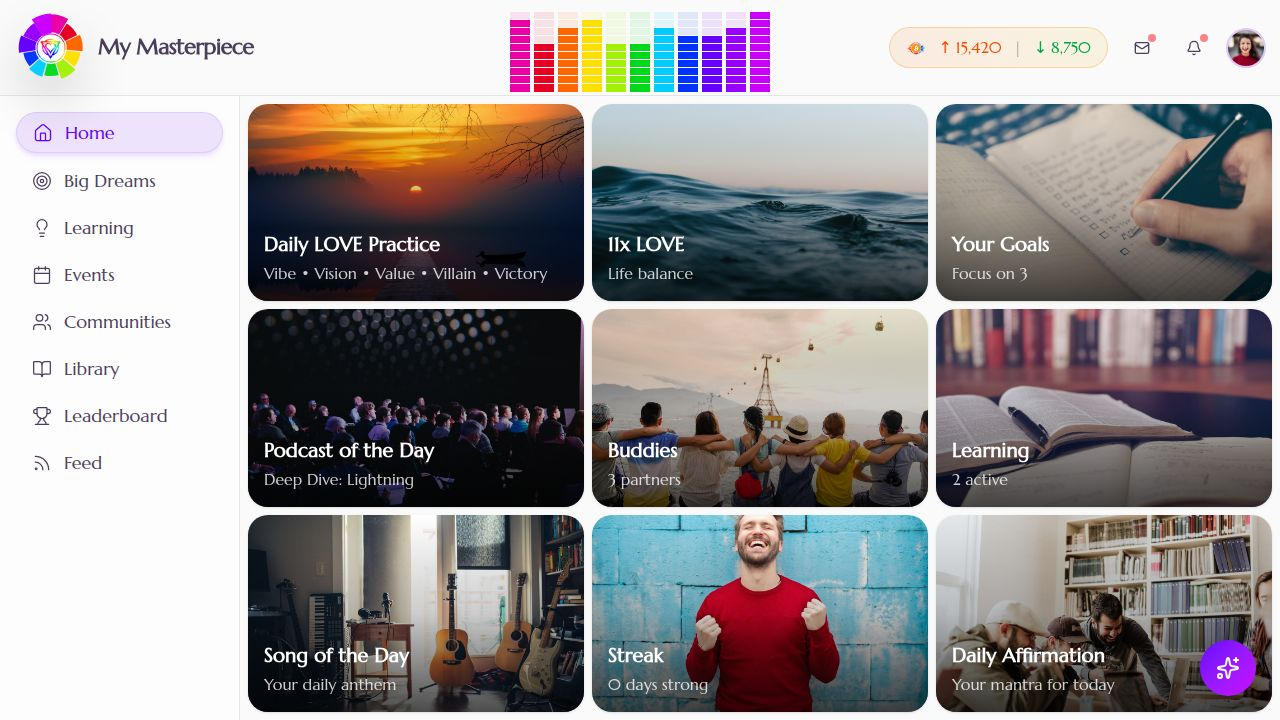
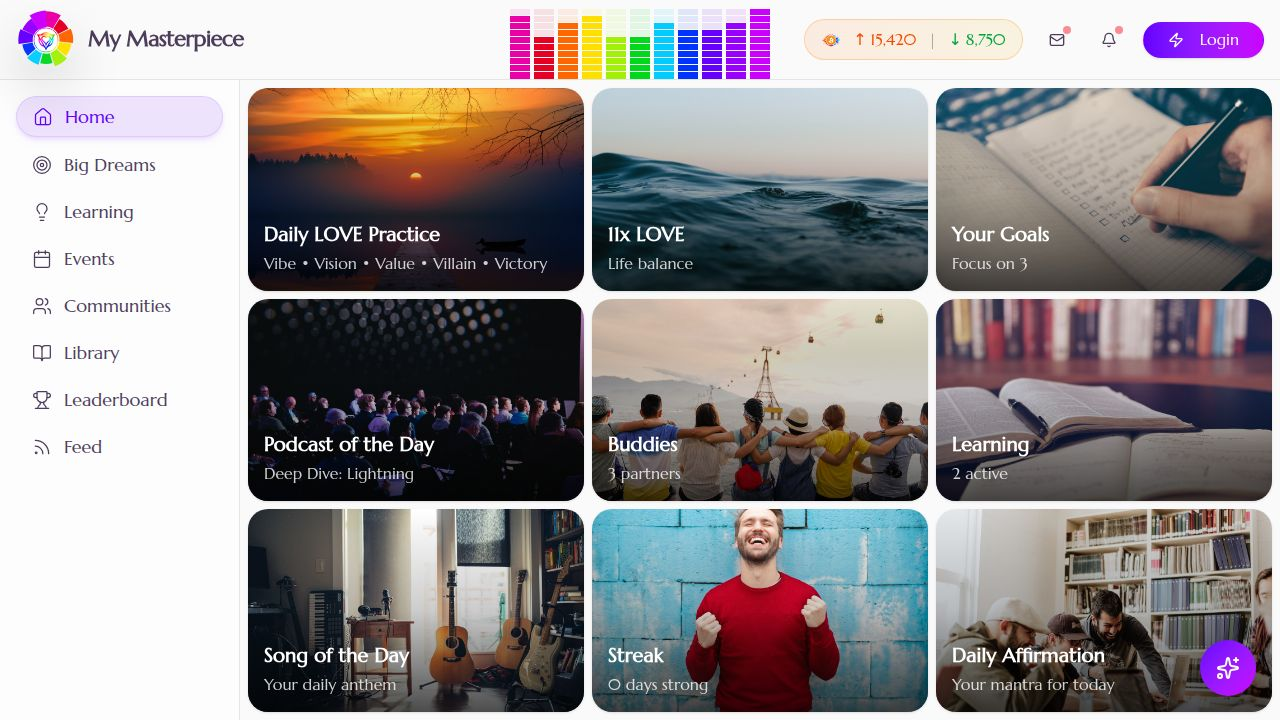
Improve mobile display and card readability on the dashboard
Update FlipCard component with responsive height and padding adjustments. Modify MasterpieceDashboard grid layout for better spacing. Adjust header elements, including EqVisualizer sizing and positioning, and introduce a compact sats display for mobile in the Layout component.

Replit-Commit-Author: Agent
Replit-Commit-Session-Id: e631bd74-a3fb-4cd9-a99c-7d1ff611b411
Replit-Commit-Checkpoint-Type: intermediate_checkpoint
Replit-Commit-Event-Id: 542cd187-db98-4e28-83d2-c5e8e2c4b4b0
Replit-Commit-Screenshot-Url: https://storage.googleapis.com/screenshot-production-us-central1/fc1445fb-c5b4-4e37-95c8-dc1683ddab51/e631bd74-a3fb-4cd9-a99c-7d1ff611b411/cVhZFFz
Replit-Helium-Checkpoint-Created: true

diff --git a/client/src/components/layout.tsx b/client/src/components/layout.tsx
@@ -63,28 +63,43 @@ export default function Layout({ children }: { children: React.ReactNode }) {
       <ThemeCustomizer />
       
       {/* Top Navigation Bar */}
-      <header className="sticky top-0 z-50 w-full border-b bg-background/80 backdrop-blur-xl px-4 h-20 md:h-24 flex items-center justify-between">
-          <div className="flex items-center gap-4">
+      <header className="sticky top-0 z-50 w-full border-b bg-background/80 backdrop-blur-xl px-3 md:px-4 h-14 md:h-20 flex items-center justify-between">
+          <div className="flex items-center gap-2 md:gap-4">
             <Link href="/">
-              <div className="flex items-center gap-3 cursor-pointer">
-                {/* Replaced Image Logo with Circular EQ Visualizer */}
+              <div className="flex items-center gap-2 md:gap-3 cursor-pointer">
+                {/* Circular EQ Visualizer - smaller on mobile */}
                 <div className="relative flex items-center justify-center">
-                  <EqVisualizer size={70} className="" isLogo={true} />
+                  {/* Mobile: 40px logo */}
+                  <div className="block md:hidden">
+                    <EqVisualizer size={40} isLogo={true} />
+                  </div>
+                  {/* Desktop: 60px logo */}
+                  <div className="hidden md:block">
+                    <EqVisualizer size={60} isLogo={true} />
+                  </div>
                 </div>
-                <span className="font-serif font-bold text-xl tracking-tight hidden md:block text-muted-foreground">My Masterpiece</span>
+                <span className="font-serif font-bold text-lg md:text-xl tracking-tight hidden md:block text-muted-foreground">My Masterpiece</span>
               </div>
             </Link>
           </div>
 
-          {/* Center: Vertical EQ Visualizer (Sharper Corners) */}
-          {/* Added explicit padding-top to container to push it down slightly per request */}
-          <div className="absolute left-1/2 top-1/2 -translate-x-1/2 -translate-y-1/2 pt-2">
-            <VerticalEqVisualizer height={80} />
+          {/* Center: Vertical EQ Visualizer - HIDDEN on mobile */}
+          <div className="hidden md:block absolute left-1/2 top-1/2 -translate-x-1/2 -translate-y-1/2 pt-2">
+            <VerticalEqVisualizer height={70} />
           </div>
 
-          <div className="flex items-center gap-2 md:gap-4">
-            {/* Sats Given/Received */}
+          <div className="flex items-center gap-1.5 md:gap-4">
+            {/* Sats Given/Received - Compact on mobile */}
             <Link href="/wallet">
+              {/* Mobile: Compact sats display */}
+              <div className="flex md:hidden items-center gap-1.5 px-2 py-1 bg-gradient-to-r from-orange-500/10 to-yellow-500/10 rounded-full border border-orange-400/30" data-testid="sats-display-mobile">
+                <img src={BitcoinIcon} alt="Bitcoin" className="w-4 h-4 rounded-full" />
+                <div className="flex items-center gap-1 text-xs">
+                  <span className="text-orange-600">↑{CURRENT_USER.satsGiven?.toLocaleString() || 0}</span>
+                  <span className="text-green-600">↓{CURRENT_USER.satsReceived?.toLocaleString() || 0}</span>
+                </div>
+              </div>
+              {/* Desktop: Full sats display */}
               <div className="hidden md:flex items-center gap-3 px-4 py-2 bg-gradient-to-r from-orange-500/10 to-yellow-500/10 rounded-full border border-orange-400/30 hover:border-orange-400/50 transition-colors cursor-pointer" data-testid="sats-display">
                 <img src={BitcoinIcon} alt="Bitcoin" className="w-5 h-5 rounded-full" />
                 <div className="flex items-center gap-3 text-sm">
@@ -101,9 +116,9 @@ export default function Layout({ children }: { children: React.ReactNode }) {
               </div>
             </Link>
 
-            {/* Inbox */}
+            {/* Inbox - hidden on mobile to reduce clutter */}
             <div 
-                className="relative"
+                className="relative hidden md:block"
                 onMouseEnter={() => setInboxOpen(true)}
                 onMouseLeave={() => setInboxOpen(false)}
             >
@@ -154,7 +169,7 @@ export default function Layout({ children }: { children: React.ReactNode }) {
             </DropdownMenu>
             </div>
 
-            {/* Notifications */}
+            {/* Notifications - smaller on mobile */}
             <div 
                 className="relative"
                 onMouseEnter={() => setNotificationsOpen(true)}
@@ -163,11 +178,11 @@ export default function Layout({ children }: { children: React.ReactNode }) {
             <DropdownMenu open={notificationsOpen} onOpenChange={setNotificationsOpen} modal={false}>
               <DropdownMenuTrigger asChild>
                 <Button variant="ghost" size="icon" className={cn(
-                    "rounded-full relative transition-colors border-none outline-none ring-0 focus:ring-0 focus:outline-none focus-visible:ring-0 focus-visible:outline-none data-[state=open]:bg-[#F0E6FF] data-[state=open]:text-love-body",
+                    "rounded-full relative transition-colors border-none outline-none ring-0 focus:ring-0 focus:outline-none focus-visible:ring-0 focus-visible:outline-none data-[state=open]:bg-[#F0E6FF] data-[state=open]:text-love-body w-8 h-8 md:w-10 md:h-10",
                     notificationsOpen ? "bg-[#F0E6FF] text-love-body" : "text-muted-foreground hover:bg-[#F0E6FF] hover:text-love-body"
                 )} data-testid="button-notifications">
-                  <Bell className="w-5 h-5" />
-                  <span className="absolute top-1 right-1 w-2 h-2 bg-red-500 rounded-full animate-pulse" data-testid="notification-dot-bell"></span>
+                  <Bell className="w-4 h-4 md:w-5 md:h-5" />
+                  <span className="absolute top-0.5 right-0.5 md:top-1 md:right-1 w-1.5 h-1.5 md:w-2 md:h-2 bg-red-500 rounded-full animate-pulse" data-testid="notification-dot-bell"></span>
                 </Button>
               </DropdownMenuTrigger>
               <DropdownMenuContent align="end" className="w-80" onMouseEnter={() => setNotificationsOpen(true)} onMouseLeave={() => setNotificationsOpen(false)}>
@@ -243,14 +258,26 @@ export default function Layout({ children }: { children: React.ReactNode }) {
                 </DropdownMenuContent>
               </DropdownMenu>
             ) : (
-              <Button
-                onClick={() => setLoginDialogOpen(true)}
-                className="bg-gradient-to-r from-[#6600ff] to-[#cc00ff] hover:from-[#5500dd] hover:to-[#bb00dd] text-white font-medium"
-                data-testid="button-login"
-              >
-                <Zap className="w-4 h-4 mr-2" />
-                Login
-              </Button>
+              <>
+                {/* Mobile: Icon-only login button */}
+                <Button
+                  onClick={() => setLoginDialogOpen(true)}
+                  size="icon"
+                  className="md:hidden bg-gradient-to-r from-[#6600ff] to-[#cc00ff] hover:from-[#5500dd] hover:to-[#bb00dd] text-white w-8 h-8"
+                  data-testid="button-login-mobile"
+                >
+                  <Zap className="w-4 h-4" />
+                </Button>
+                {/* Desktop: Full login button */}
+                <Button
+                  onClick={() => setLoginDialogOpen(true)}
+                  className="hidden md:flex bg-gradient-to-r from-[#6600ff] to-[#cc00ff] hover:from-[#5500dd] hover:to-[#bb00dd] text-white font-medium"
+                  data-testid="button-login"
+                >
+                  <Zap className="w-4 h-4 mr-2" />
+                  Login
+                </Button>
+              </>
             )}
           </div>
       </header>
@@ -285,27 +312,53 @@ export default function Layout({ children }: { children: React.ReactNode }) {
 
       </div>
 
-      {/* Mobile Bottom Nav */}
-      <nav className="lg:hidden fixed bottom-0 left-0 right-0 h-16 bg-background/90 backdrop-blur-lg border-t z-50 flex items-center justify-around px-2">
-        {navLinks.map((item) => {
-          const isActive = location === item.href;
+      {/* Mobile Bottom Nav - Icons only, 5 core items + More */}
+      <nav className="lg:hidden fixed bottom-0 left-0 right-0 h-14 bg-background/95 backdrop-blur-lg border-t z-50 flex items-center justify-around px-1 safe-area-pb">
+        {navLinks.slice(0, 5).map((item) => {
+          const isActive = location === item.href || (item.href !== "/" && location.startsWith(item.href));
           return (
             <Link key={item.href} href={item.href}>
-              <div className="flex flex-col items-center justify-center w-16 h-full cursor-pointer">
-                <div className={cn(
-                  "p-1.5 rounded-full transition-all duration-200 mb-1",
-                  isActive ? "bg-love-body/10 text-love-body" : "text-muted-foreground"
-                )}>
-                  <item.icon className={cn("w-6 h-6", isActive && "fill-current")} />
-                </div>
-                <span className={cn(
-                  "text-xs font-medium transition-colors",
-                  isActive ? "text-love-body" : "text-muted-foreground"
-                )}>{item.label}</span>
+              <div className={cn(
+                "flex items-center justify-center w-12 h-12 rounded-xl transition-all duration-200 cursor-pointer",
+                isActive 
+                  ? "bg-love-body/15 text-love-body" 
+                  : "text-muted-foreground active:bg-muted/50"
+              )}>
+                <item.icon className={cn("w-6 h-6", isActive && "stroke-[2.5]")} strokeWidth={1.5} />
               </div>
             </Link>
           );
         })}
+        {/* More menu for remaining items */}
+        <DropdownMenu>
+          <DropdownMenuTrigger asChild>
+            <div className={cn(
+              "flex items-center justify-center w-12 h-12 rounded-xl transition-all duration-200 cursor-pointer text-muted-foreground active:bg-muted/50"
+            )}>
+              <svg className="w-6 h-6" fill="none" viewBox="0 0 24 24" stroke="currentColor" strokeWidth={1.5}>
+                <circle cx="12" cy="12" r="1" />
+                <circle cx="12" cy="5" r="1" />
+                <circle cx="12" cy="19" r="1" />
+              </svg>
+            </div>
+          </DropdownMenuTrigger>
+          <DropdownMenuContent align="end" side="top" className="w-48 mb-2">
+            {navLinks.slice(5).map((item) => {
+              const isActive = location === item.href;
+              return (
+                <Link key={item.href} href={item.href}>
+                  <DropdownMenuItem className={cn(
+                    "cursor-pointer gap-3",
+                    isActive && "text-love-body bg-love-body/10"
+                  )}>
+                    <item.icon className="w-5 h-5" strokeWidth={1.5} />
+                    <span>{item.label}</span>
+                  </DropdownMenuItem>
+                </Link>
+              );
+            })}
+          </DropdownMenuContent>
+        </DropdownMenu>
       </nav>
 
       {/* Floating Magic Mentor Button (Bottom Right) */}

diff --git a/client/src/components/dashboard/flip-card.tsx b/client/src/components/dashboard/flip-card.tsx
@@ -74,7 +74,7 @@ export function FlipCard({
       tabIndex={0}
       aria-label={`${title} card. ${isFlipped ? "Showing details. Press to flip back." : "Press to see details."}`}
       className={cn(
-        "relative w-full h-full cursor-pointer",
+        "relative w-full cursor-pointer min-h-[200px] sm:min-h-[180px] md:min-h-[160px] lg:min-h-[140px] aspect-[4/3] sm:aspect-[3/2]",
         className
       )}
       style={{ perspective: "1000px" }}
@@ -100,9 +100,9 @@ export function FlipCard({
             style={{ backgroundImage: `url(${backgroundImage})` }}
           />
           <div className="absolute inset-0 bg-gradient-to-t from-black/70 via-black/20 to-transparent" />
-          <div className="absolute bottom-0 left-0 right-0 p-4 text-white">
-            <h3 className="text-lg font-bold mb-0.5">{title}</h3>
-            <p className="text-sm text-white/80">{subtitle}</p>
+          <div className="absolute bottom-0 left-0 right-0 p-3 md:p-4 text-white">
+            <h3 className="text-base md:text-lg font-bold mb-0.5 drop-shadow-lg">{title}</h3>
+            <p className="text-xs md:text-sm text-white/90 drop-shadow-md">{subtitle}</p>
           </div>
           {frontContent && (
             <div className="absolute top-3 right-3">{frontContent}</div>

diff --git a/client/src/components/dashboard/masterpiece-dashboard.tsx b/client/src/components/dashboard/masterpiece-dashboard.tsx
@@ -319,8 +319,8 @@ export function MasterpieceDashboard() {
   ];
 
   return (
-    <div className="w-full h-full p-2 overflow-hidden bg-background">
-      <div className="grid grid-cols-1 sm:grid-cols-2 lg:grid-cols-3 gap-2 h-full">
+    <div className="w-full h-full p-2 md:p-3 overflow-y-auto pb-20 md:pb-4 bg-background">
+      <div className="grid grid-cols-1 sm:grid-cols-2 lg:grid-cols-3 gap-3 md:gap-4">
         {cards.map((card) => (
           <FlipCard
             key={card.id}
